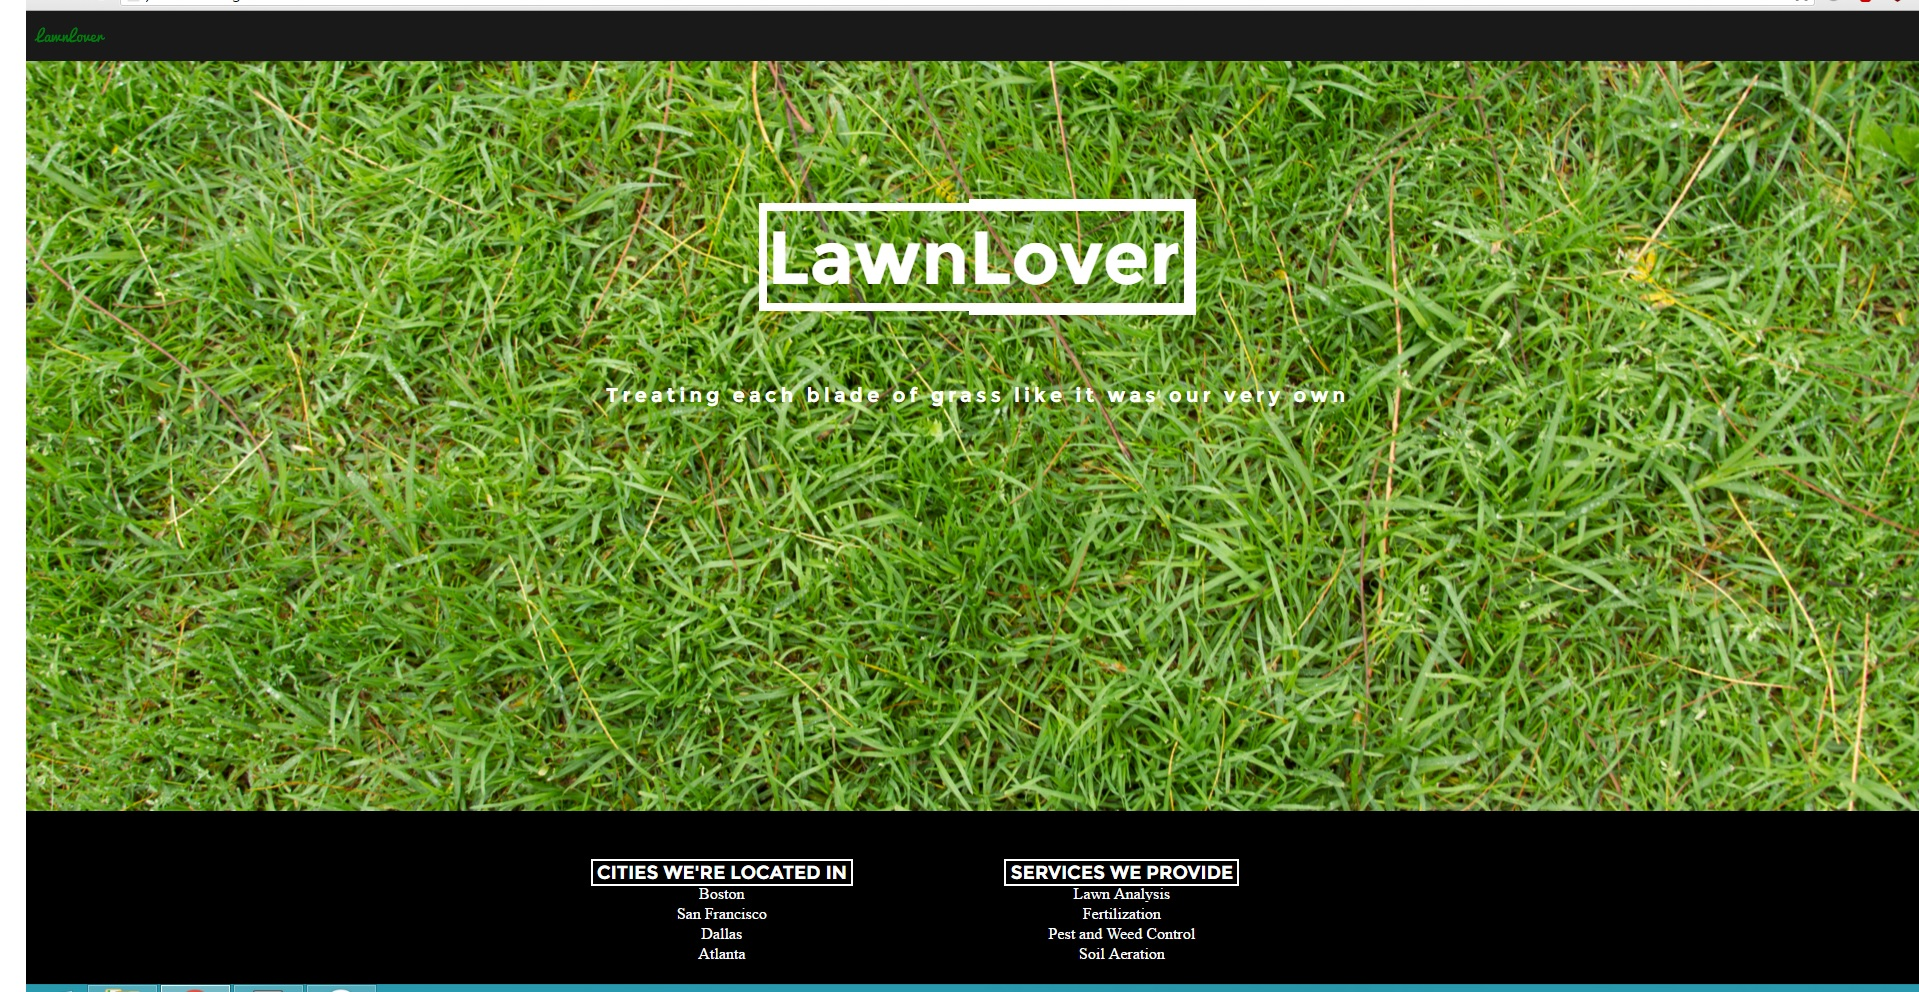
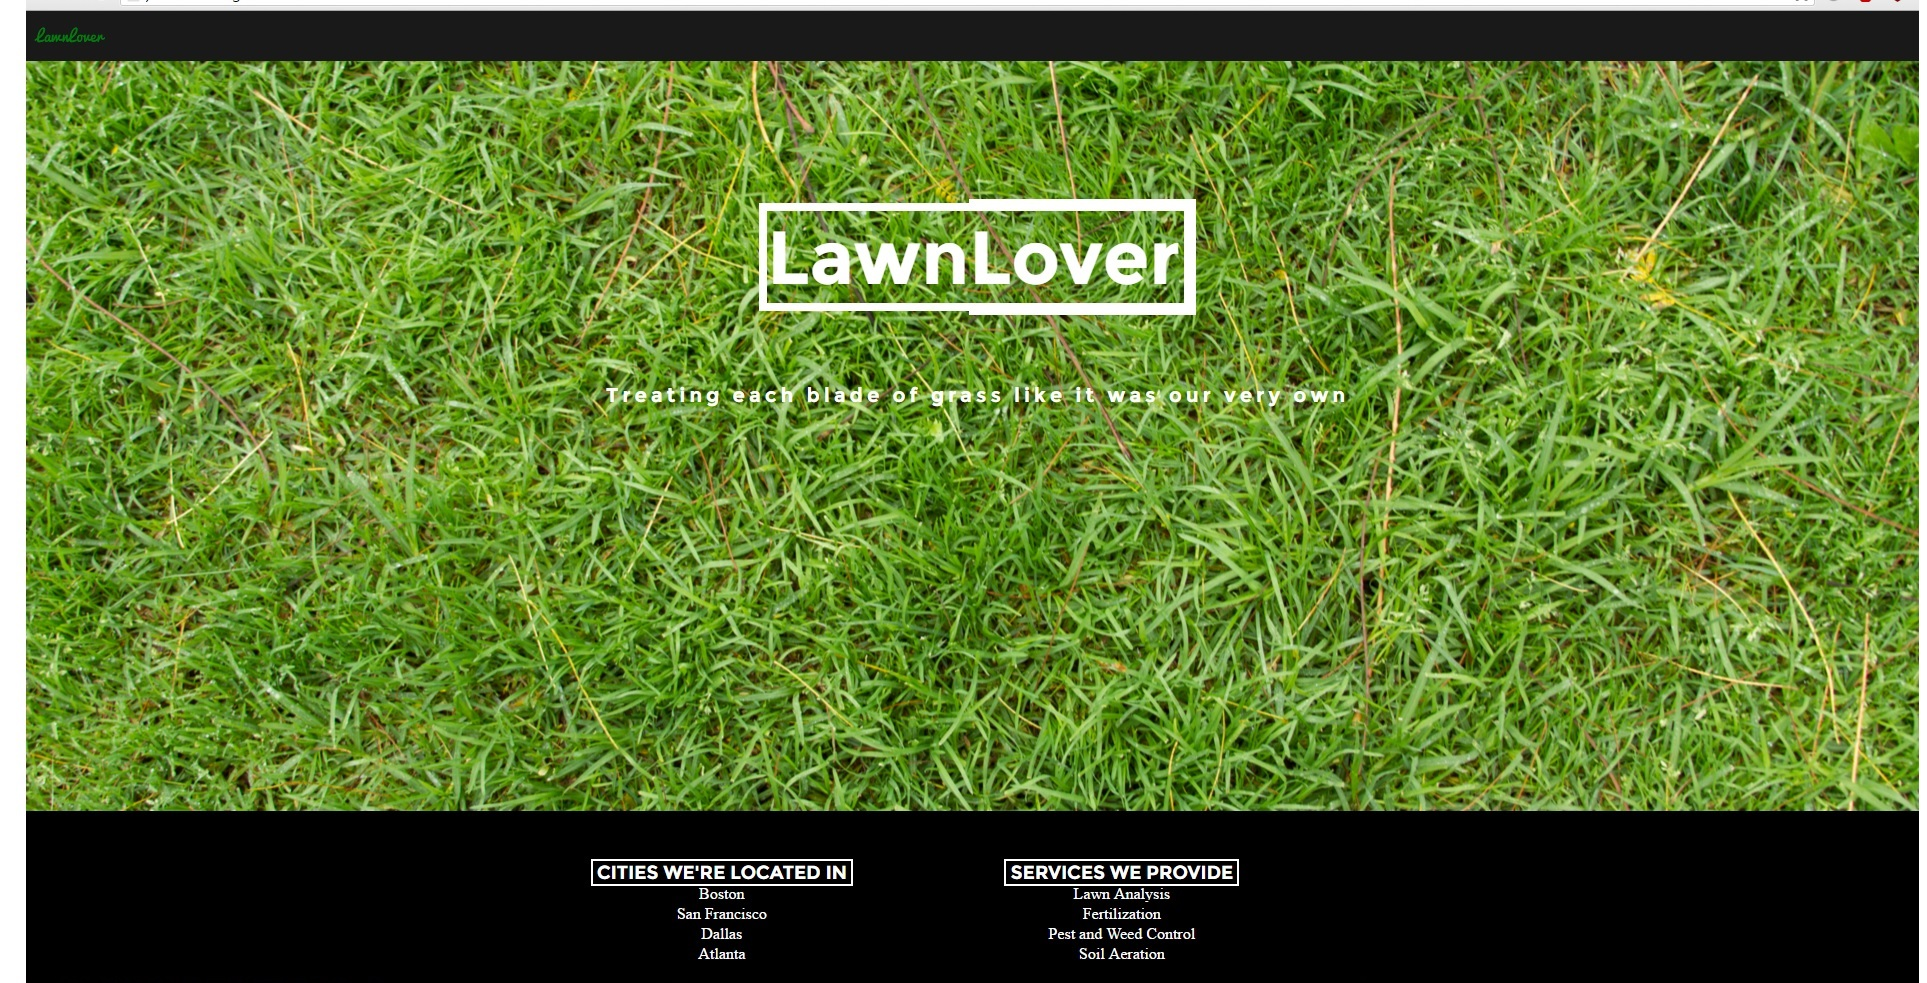
trying semantic tags

diff --git a/unit_4/index.html b/unit_4/index.html
@@ -8,47 +8,47 @@
 	<title>LawnLover</title>
 </head>
 <body>
-	<div id="all">	
-			<nav><ul><li><a href="#">LawnLover</a></li></ul></nav>
+	<div id="wrapper">	
 			<header title="Healthy Grass">
-				<h1><span id="lawn">Lawn</span><span id="love">Lover</span></h1>
-				<p id="slogan">Treating each blade of grass like it was our very own</p>
+				<nav><a href="#">LawnLover</a></nav>
+					<h1><span id="lawn">Lawn</span><span id="love">Lover</span></h1>
+					<p id="slogan">Treating each blade of grass like it was our very own</p>
 			</header>
-			<div id="belowfold">	
-				<div id="container">
-					<div id="cities">
+			<main>	
+				<section id="container">
+					<article id="cities">
 						<ul> <h3><span class="listhead">Cities we're located in</span></h3>
 							<li>Boston</li>
 							<li>San Francisco</li>
 							<li>Dallas</li>
 							<li>Atlanta</li>
 						</ul>
-					</div>
+					</article>
 
-					<div id="services">
+					<article id="services">
 						<ul> <h3><span class="listhead">Services we provide</span></h3>
 							<li>Lawn Analysis</li>
 							<li>Fertilization</li>
 							<li>Pest and Weed Control</li>
 							<li>Soil Aeration</li>
 						</ul>
-					</div>
-				</div>
+					</article>
+				</section>
 				<div class="clear"></div>
-				<div id="difference">
+				<section id="difference">
 					<img id="specialist" src="http://www.lawncare.org/wp-content/uploads/commercial-lawn-care.jpg" alt="lawn care specialist inspecting a leaf" title="Lawn Care Specialist">
 					<h2>What sets LawnLover apart from other lawn care specialists?</h2>
 					<p id="experts">Our team of dedicated experts will meet with you on your time<br> to go over your specific needs, because we know no two lawns are the same</p>
 					<p id="climate">Before we arrive we research the climate specific to your residence<br> so that we understand all the variables in play when treating your lawn</p>
 					<p id="samples">After our first visit, we'll bring a soil and grass sample back to<br> our lab so we can get to the root of your lawn troubles</p>
-				</div>
+				</section>
+			</main>
 			<footer>
 				<ul id="footer">
 					<li><a href="mailto:Jallain@gmail.com?Subject=Hi%20There" target="_top">Jallain@gmail.com</a></li>
 					<li><a href="#"> Top</a></li>
 				</ul>
 			</footer>
-			</div>
 	</div>	
 </body>
 </html>

diff --git a/unit_4/css/style.css b/unit_4/css/style.css
@@ -1,7 +1,7 @@
 * {
 	margin: 0;
 	border: 0;
-	padding 0;
+	padding: 0;
 }
 
 nav {
@@ -9,15 +9,11 @@ nav {
 	background: rgba(0,0,0,0.9);
 }
 
-nav ul li {
-	list-style: none;
+nav a {
 	color:#007b0c;
 	padding-top: 10px;
 	margin-left: -30px;
 	font-family: Pacifico;
-}
-
-nav ul li a {
 	text-decoration: none;
 	color: #007b0c;
 }
@@ -81,14 +77,13 @@ h1 {
 #slogan {
 	font-family: Montserrat, Helvetica, Arial, sans-serif;
 	font-size: 20px;
-	/*font-style: italic;*/
 	padding-top: 80px;
 	font-weight: bolder;
 	letter-spacing: .2em;
 	word-spacing: .1em;
 }
 
-#belowfold {
+main {
 	background: black;
 }
 
